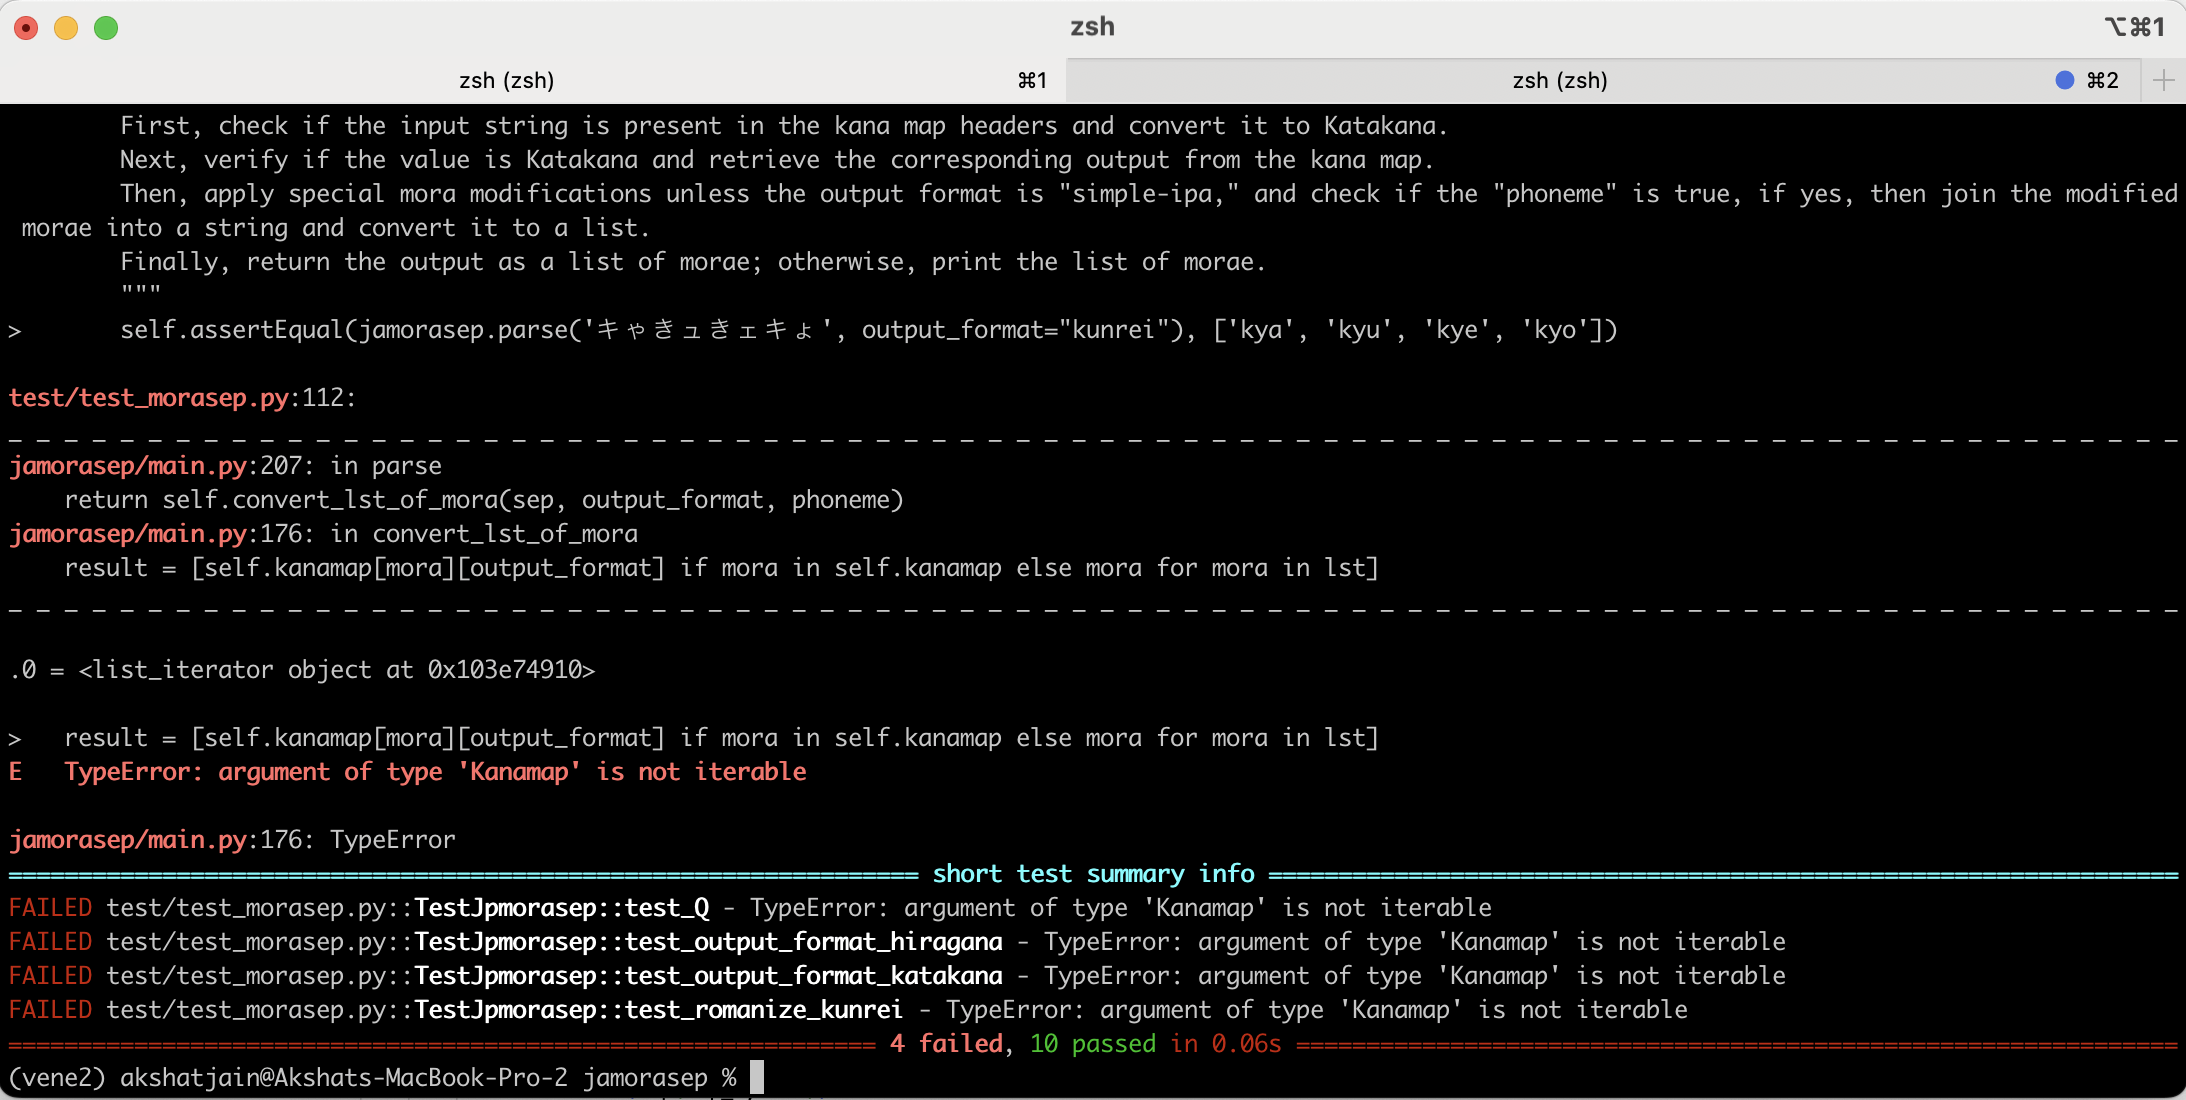
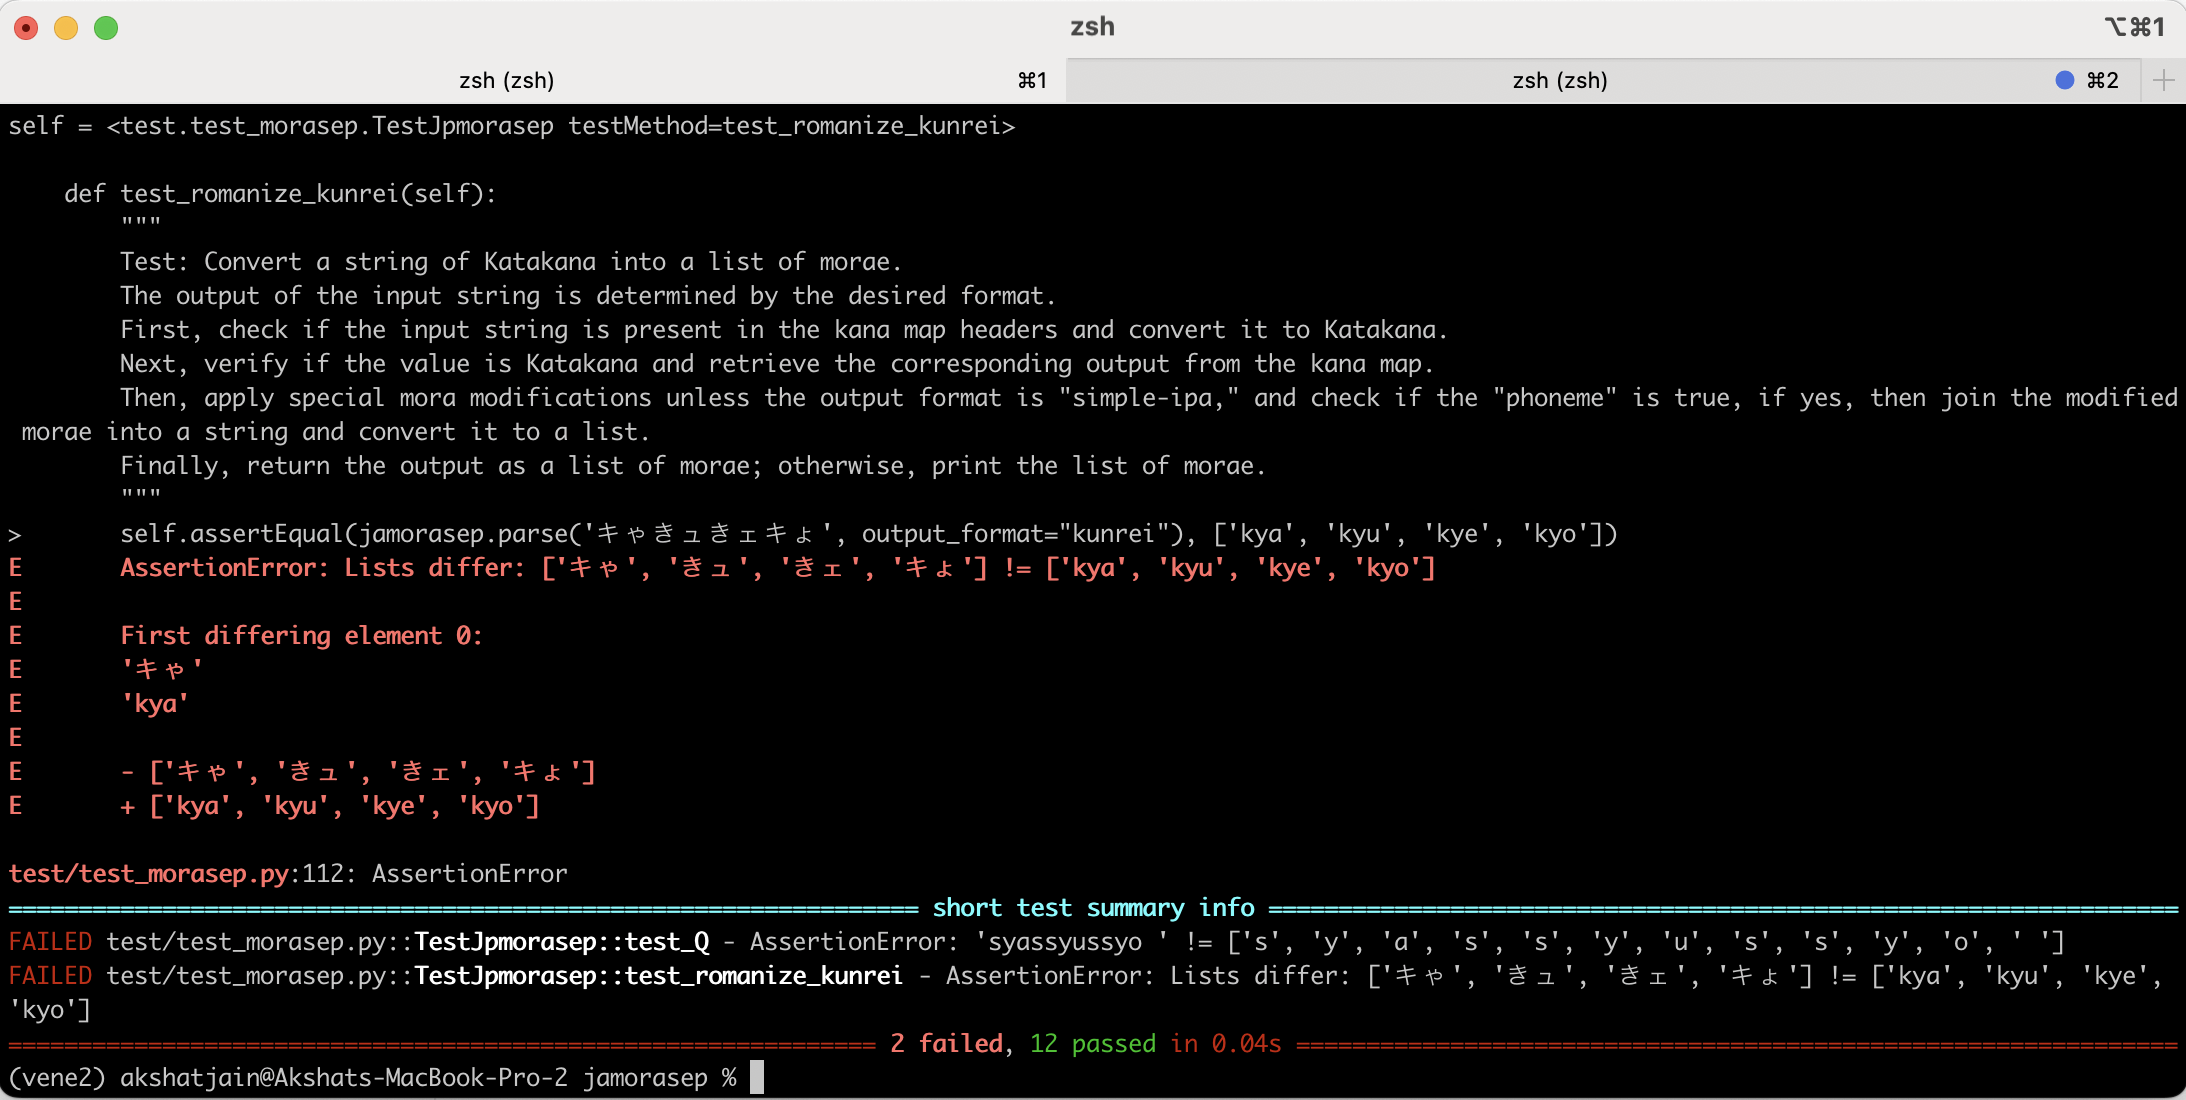
updated features

Changed region(s): [[0.0, 0.0927, 0.9954, 0.5255], [0.0, 0.5564, 0.9954, 0.9273], [0.6532, 0.4636, 0.7466, 0.4945]]

diff --git a/jamorasep/features/feature_1/with_flawed_solution.py b/jamorasep/features/feature_1/with_flawed_solution.py
@@ -1,17 +1,32 @@
 ```
     def convert_lst_of_mora(self, lst : List[str], output_format : str = "katakana", phoneme : bool = False) -> List[str]:
+        """
+        Convert a list of morae into a different format.
+
+        Args:
+            lst (List[str]): A list of morae.
+            output_format (str): The output format of the morae. Defaults to "katakana".
+                Options are ["katakana", "hiragana"], and any of the columns in the kanamap.csv file,
+                including ["kunrei", "hepburn", "simple-ipa"].
+            phoneme (bool): If True, the output is a list of phonemes. Defaults to False.
+                This flag is only valid when output_format is either of ["kunrei", "hepburn", "simple-ipa"].
+        Returns:
+            Union[List[str], str]: A list of morae in the specified format.
+                If phoneme is True, the output is a single string of phonemes.
+        Raises:
+            ValueError: If the output format is invalid.
+        """
         if output_format == "hiragana":
-            result = [k2h(self.kanamap[mora]["hiragana"]) if mora in self.kanamap else mora for mora in lst]
+            return [k2h(m) if m in self.kanamap.lst_katakana() else m for m in lst]
         elif output_format == "katakana":
-            result = [self.kanamap[mora]["katakana"] if mora in self.kanamap else mora for mora in lst]
+            return [h2k(m) if m in self.kanamap.lst_katakana() else m for m in lst]
         elif output_format in self.kanamap.header():
-            result = [self.kanamap[mora][output_format] if mora in self.kanamap else mora for mora in lst]
+            res = [self.kanamap(h2k(m))[output_format] if m in self.kanamap.lst_katakana() else m for m in lst]
             if output_format != "simple-ipa":
-                result = self.modify_special_mora(result)
+                res = self.modify_special_mora(res)
             if phoneme:
-                result = "".join(result)
-                result = list(result)
+                res = "".join(res)
+            return res
         else:
-            raise ValueError(f"Invalid output format: {output_format}")
-        return result
+            raise ValueError("Invalid output_format.")
 ```
